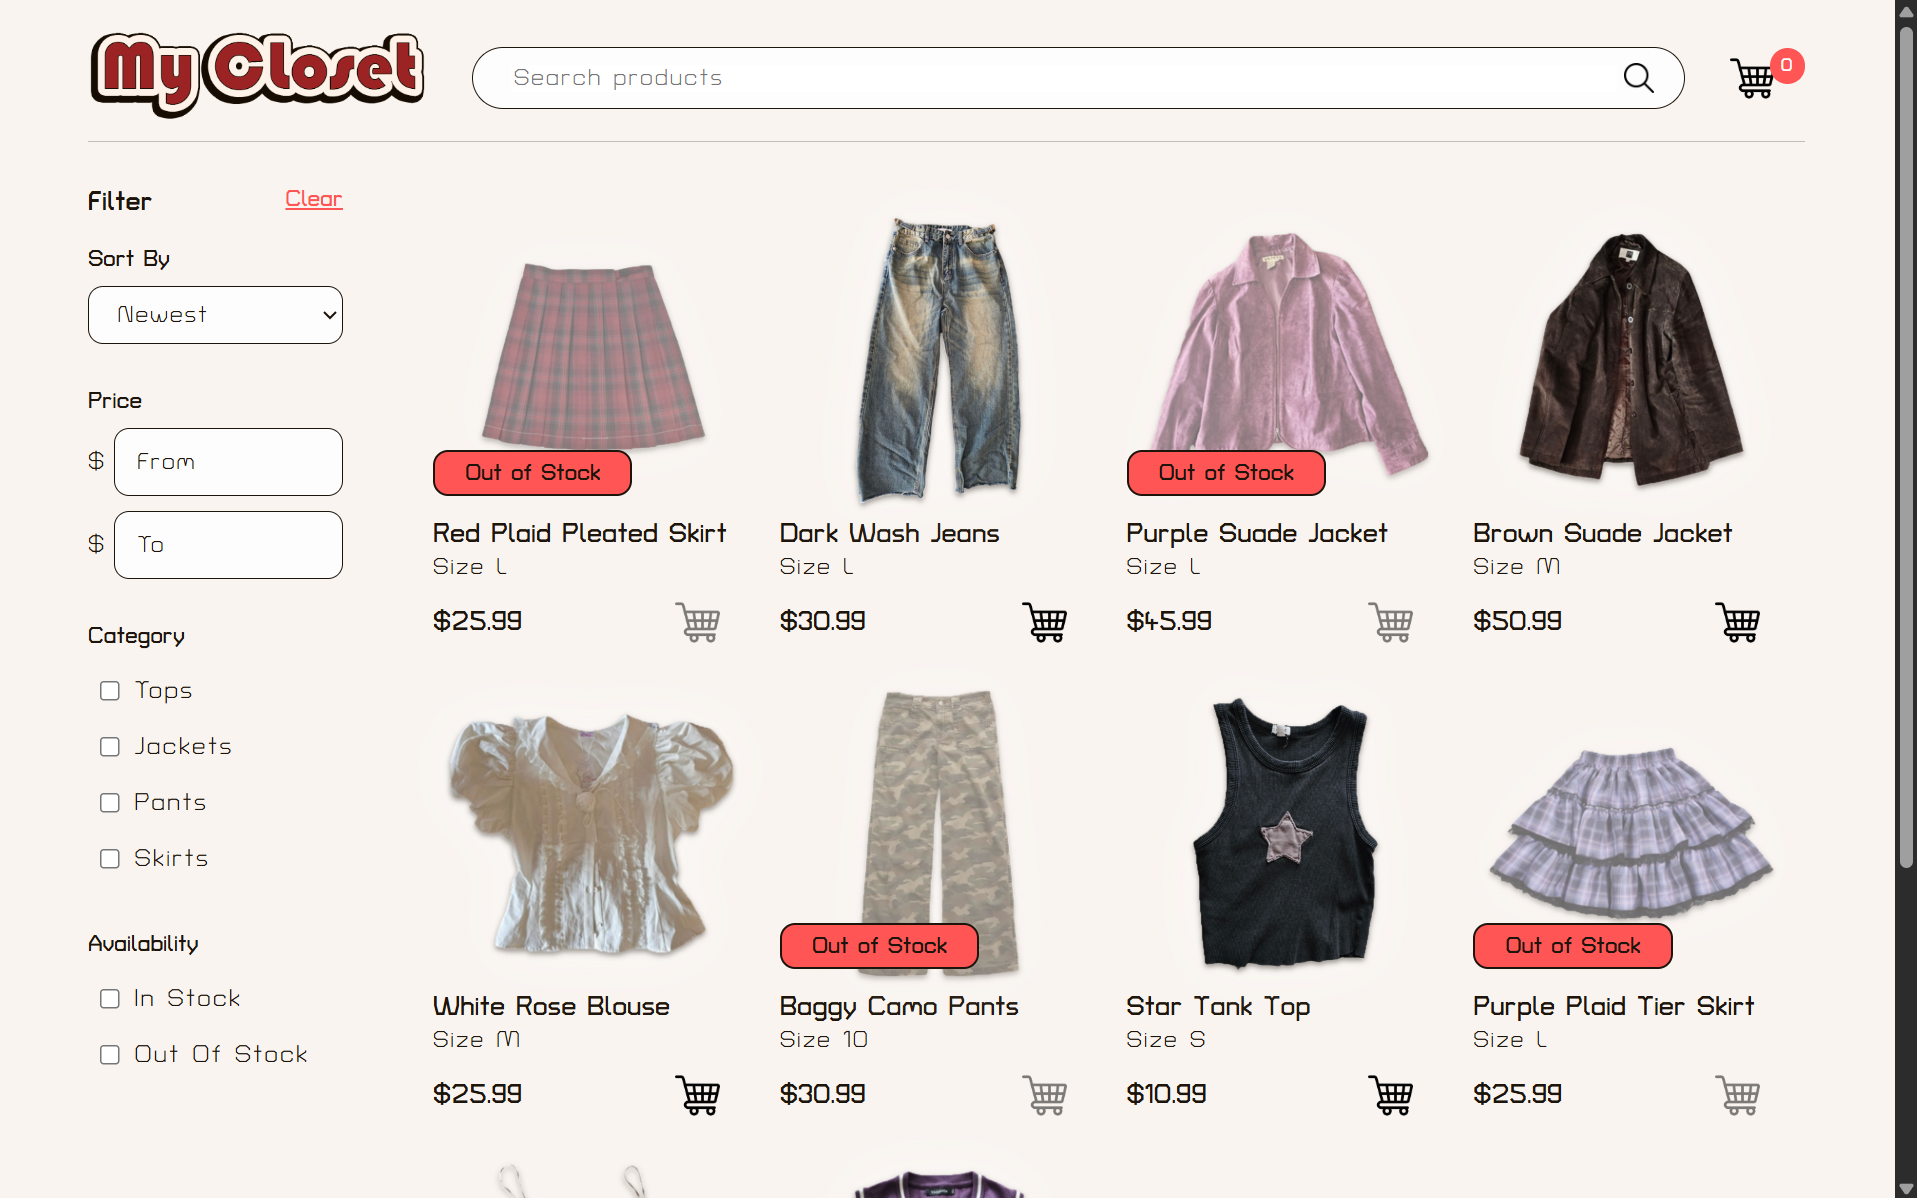
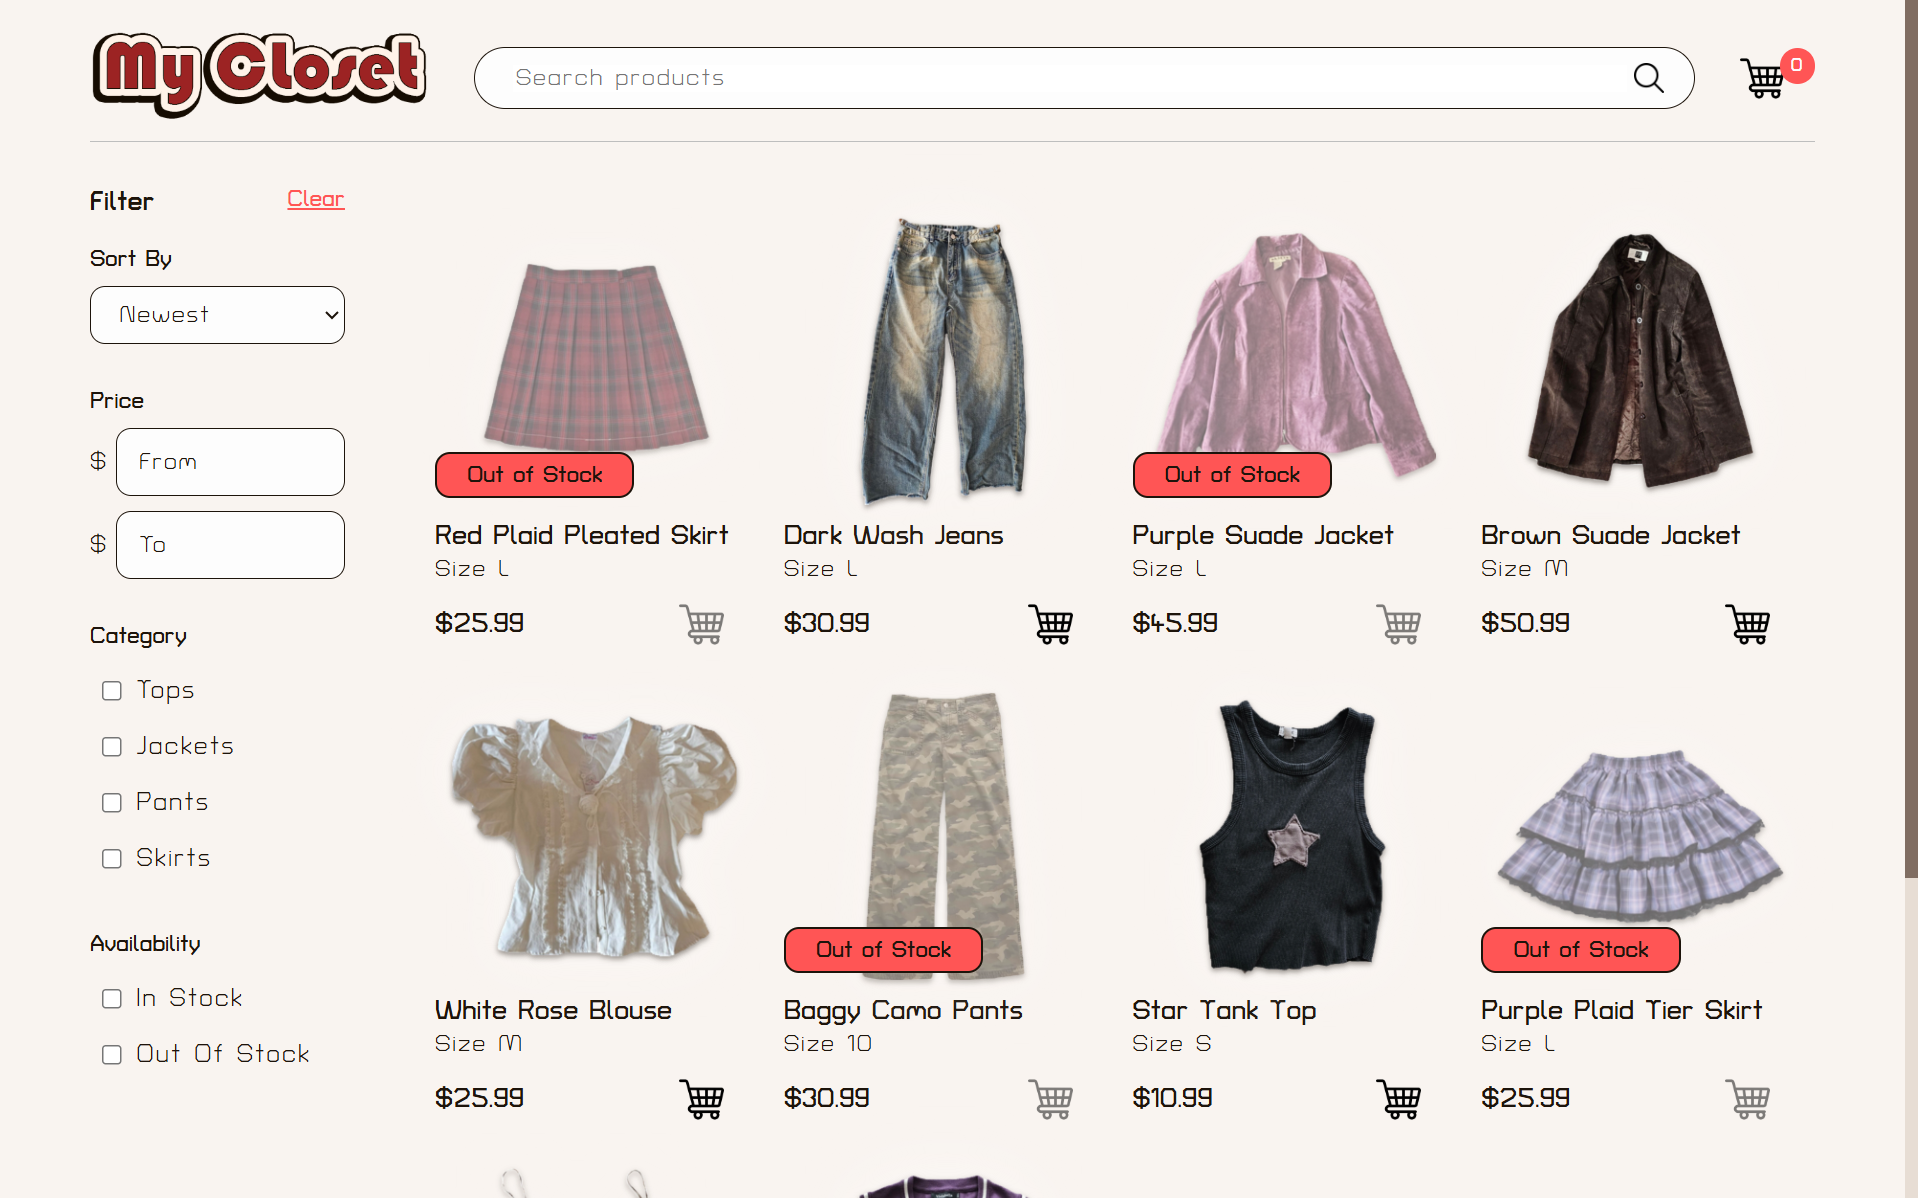
minor styling updates: replaces ecommerce project image, fixed broken technology tags in project section, made gaps between sections smallar on mobile, fixed responsiveness in hero section (#20)

diff --git a/portfolio/src/index.css b/portfolio/src/index.css
@@ -249,8 +249,6 @@ button {
     border-radius: 50px;
 }
 
-
-
 /* Navbar */
 #nav-bar {
     overflow: auto;
@@ -325,7 +323,7 @@ button {
         line-height: 1.3em;
     }
     #about-text-container > p {
-        font-size: clamp(13px, 4cqi, 1.0rem);
+        font-size: clamp(10px, 4cqi, 1.0rem);
     }
     #hi-im-text {
         color: var(--semi-transparent-purple);
@@ -373,8 +371,7 @@ button {
         justify-content: center;
         align-items: center;
         width: 100%;
-        padding: 0px 22px;
-        height: 65.64px;
+        padding: 15px 22px;
     }
 }
 
@@ -581,7 +578,7 @@ button {
     }
 }
 
-@media (max-width: 1000px) {
+@media (max-width: 800px) {
     /* Hero Section */
     .home-container {
         grid-template-columns: 1fr;
@@ -613,6 +610,19 @@ button {
 }
 
 @media (max-width: 650px) {
+    body {
+        padding: 2%;
+    }
+    /* Hero Section */
+    #about-container {
+        width: 100%;
+    }
+    #roles-container {
+        div {
+            padding: 15px 5px;
+            font-size: 12px;
+        }
+    }
     /* Scrollbar */
     .scroll-button {
         display: none;

diff --git a/portfolio/src/components/ProjectsSection.js b/portfolio/src/components/ProjectsSection.js
@@ -46,7 +46,7 @@ function ProjectsSection() {
                         <div className="project-info">
                             <div className="project-header">
                                 <h2>{project.title}</h2>
-                                <div>
+                                <div style={{ display: "flex" }}>
                                     {project.technology.map((technology) => (
                                         <div className="technology-card">
                                             <img

diff --git a/portfolio/src/App.css b/portfolio/src/App.css
@@ -38,6 +38,12 @@
   color: #61dafb;
 }
 
+@media (max-width: 800px) {
+  .main-content {
+      gap: 50px;
+  }
+}
+
 @keyframes App-logo-spin {
   from {
     transform: rotate(0deg);
